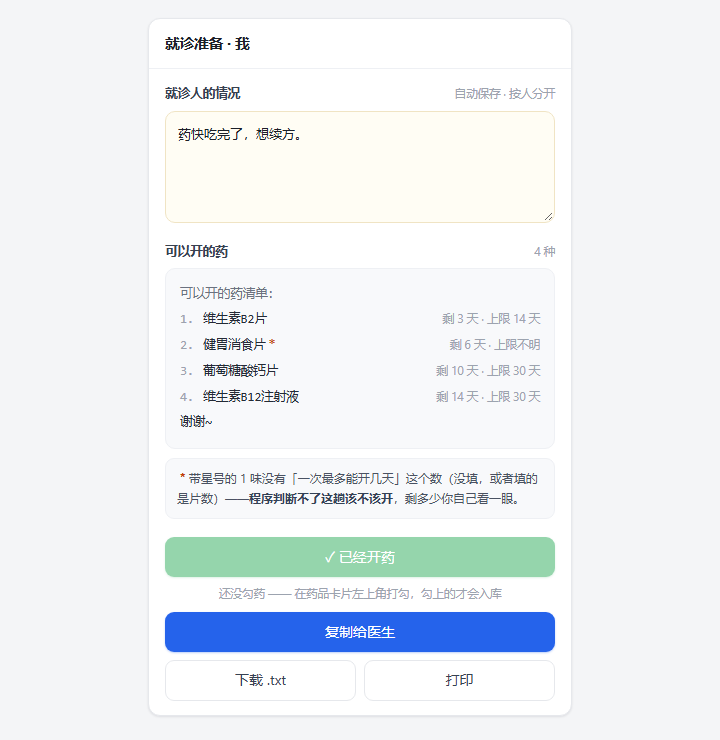
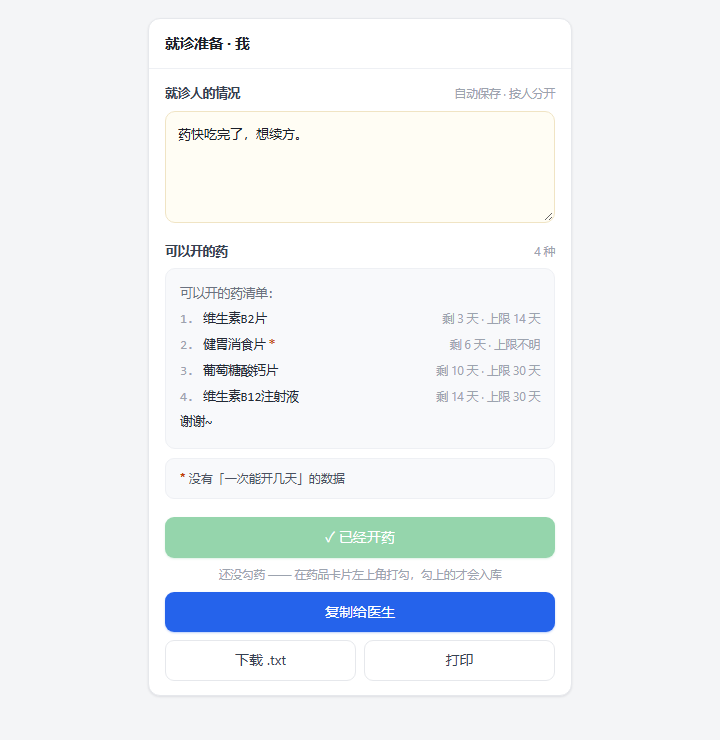
星号解释砍到一行：「* 没有「一次能开几天」的数据」
用户 2026-11-20 原话：「* 带星号的 1 味没有「一次最多能开几天」这个数（没填，或者填的是片数）
——程序判断不了这趟该不该开，剩多少你自己看一眼。这个改成 * 没有「一次能开几天」的数据，
这个要先改一下。」

原来那段占三行、还带加粗，压在清单正下方，比清单本身还抢眼 —— 一个本该是脚注的东西
被读成了正文。现在只交代这个星代表什么，四件事全删掉：
  · 「带星号的 1 味」这个数量（星就在眼前，数一遍就知道几味）
  · 「没填，或者填的是片数」这个分类（为什么没有，编辑页那格的说明里写着）
  · 「程序判断不了这趟该不该开」这个结论（用户要的正是别在这里下判断）
  · 「剩多少你自己看一眼」这句交代（同上，越界了）

starN 仍保留，但只用来决定这一行显不显示（没有星就不显示）。

测试：test_ins 那两条断言换成"整行必须逐字等于这句话"+"不许再出现判不了/带星号/剩多少"，
多一个字都算回潮。1144 项全绿。APK 2.3 / versionCode 14。

Changed region(s): [[0.2139, 0.6216, 0.7944, 0.9324]]

diff --git a/index.html b/index.html
@@ -3245,15 +3245,17 @@ function renderRefill(){
 
   /* 药名后面那个星是什么：紧贴在清单下面解释，不能让它自己漂着（2026-11-19 用户要求）。
      ★ 只解释、不判断 —— 不说"该开了"，也不替用户拿主意。
-     ★ 星号只在界面上，复制/下载的文本里没有（见 buildRefillText）。 */
+     ★ 星号只在界面上，复制/下载的文本里没有（见 buildRefillText）。
+     ★ 2026-11-20 用户把这句砍到只剩一行：「* 没有「一次能开几天」的数据」。
+       原来那句「带星号的 1 味…（没填，或者填的是片数）——程序判断不了这趟该不该开，
+       剩多少你自己看一眼」解释得太长，一整个段落压在清单下面，喧宾夺主。
+       现在只交代这个星代表什么，为什么没有、为什么判不了都不在这里说了
+       —— 编辑药品那格的 hintline 里已经写着。 */
   const starN = items.filter(noCap).length;
   const sEl = $('#refillStar');
   if(sEl){
     sEl.hidden = !starN;
-    sEl.innerHTML = starN
-      ? '<i class="rstar">*</i> 带星号的 ' + starN + ' 味没有「一次最多能开几天」这个数'
-        + '（没填，或者填的是片数）——<b>程序判断不了这趟该不该开</b>，剩多少你自己看一眼。'
-      : '';
+    sEl.innerHTML = starN ? '<i class="rstar">*</i> 没有「一次能开几天」的数据' : '';
   }
 
   /* 「已经开药」不再跟着清单走，而是跟着**勾选**走（2026-11-19 用户要求）：

diff --git a/_check/test_ins.py b/_check/test_ins.py
@@ -686,11 +686,15 @@ PROBE = r"""
      q('#refillText').parentNode.querySelector('.blk-t').textContent);
   ck('★ 没填上限的那味药名后面挂了星', /没填上限片<i class="rstar"/.test(rHtml), rHtml.replace(/\n/g, ' / '));
   ck('  填了上限的那味不带星', rHtml.indexOf('填了上限片<i') < 0, rHtml.replace(/\n/g, ' / '));
-  ck('★ 星下面有解释，说清"没有这个数 → 判不了该不该开"',
-     sBox.hidden === false && /没有「一次最多能开几天」这个数/.test(sBox.textContent)
-       && /判断不了/.test(sBox.textContent),
+  // ★ 2026-11-20 用户把这句砍成一行：「* 没有「一次能开几天」的数据」。
+  //   原来那段「带星号的 1 味…（没填，或者填的是片数）——程序判断不了这趟该不该开，
+  //   剩多少你自己看一眼」太长，整段压在清单下面喧宾夺主。断言跟着收窄：
+  //   只要这一行，多一个字都算回潮。
+  ck('★ 星下面就一行「* 没有「一次能开几天」的数据」',
+     sBox.hidden === false && sBox.textContent.trim() === '* 没有「一次能开几天」的数据',
      sBox.textContent.replace(/\s+/g, ' '));
-  ck('  解释里点了星的数量（1 味）', /1\s*味/.test(sBox.textContent),
+  ck('  不再解释"为什么判不了 / 剩多少自己看"（那些话挪回编辑页的说明里）',
+     !/判断不了|判不了|带星号|剩多少/.test(sBox.textContent),
      sBox.textContent.replace(/\s+/g, ' '));
   ck('★ 复制/下载的文字里没有星号（那是界面上的记号）',
      buildRefillText().indexOf('*') < 0

diff --git a/README.md b/README.md
@@ -131,8 +131,10 @@
 
 所以这类药照常列进清单，药名后面挂一个 \*，右边依据写「上限不明」，清单下面紧跟一行说明：
 
-> \* 带星号的 1 味没有「一次最多能开几天」这个数（没填，或者填的是片数）——
-> **程序判断不了这趟该不该开**，剩多少你自己看一眼。
+> \* 没有「一次能开几天」的数据
+
+就这一行。为什么没有、为什么判不了、剩多少要不要自己看 —— 这些都不在这句话里说，
+编辑药品那一格的说明里已经写着（2026-11-20 用户要求砍短的：原来那段占了四行，压在清单下面太抢眼）。
 
 星号只是界面上给自己看的记号，**复制 / 下载的文字里没有** —— 医生不知道那是什么。
 把上限补上（「编辑药品」里那一格），星号就没了。
